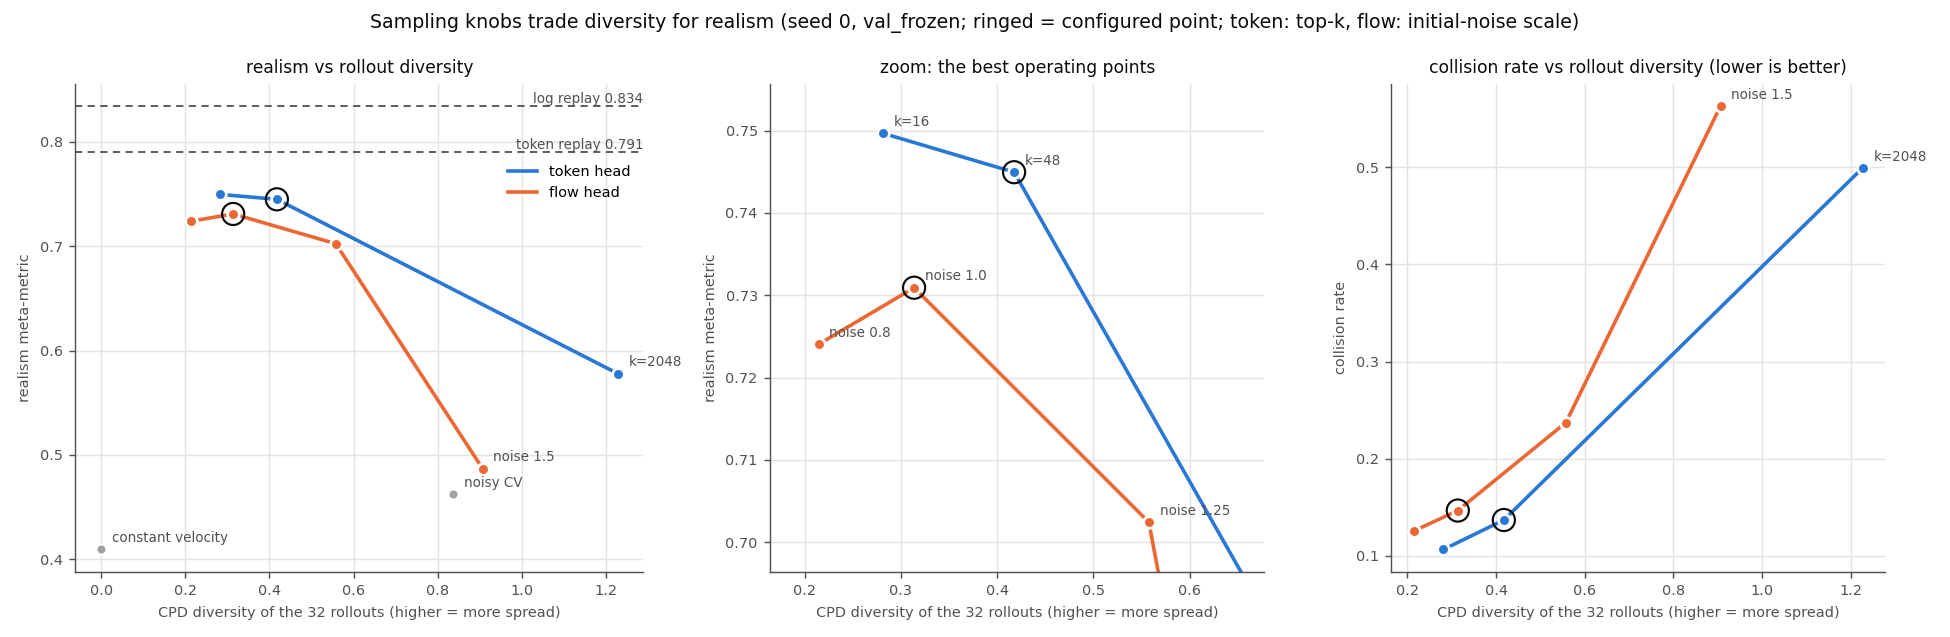
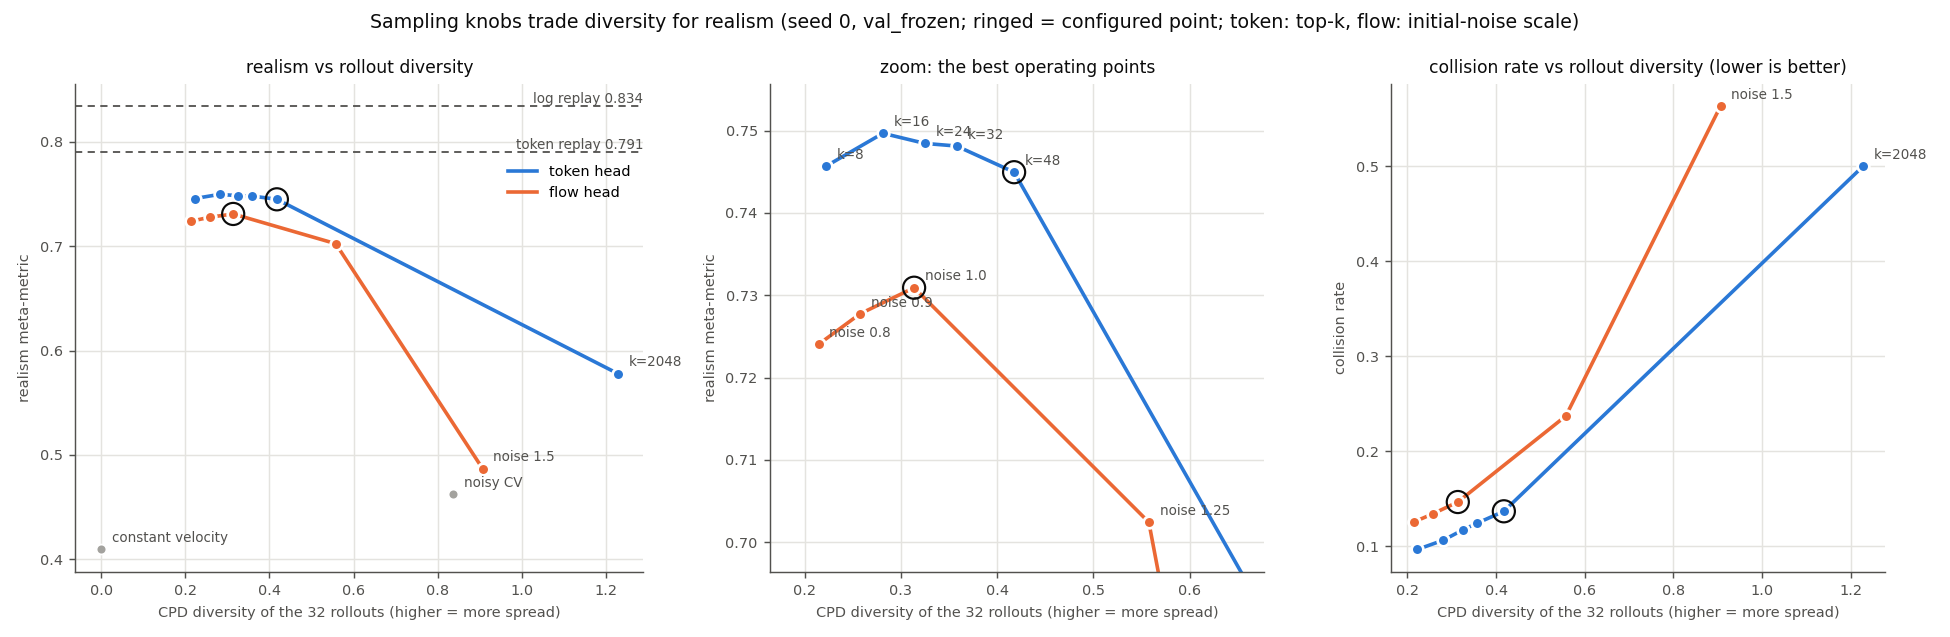
figures: draw full sampling grid with fine-tuned policies

diff --git a/src/tokens_vs_flows/figures.py b/src/tokens_vs_flows/figures.py
@@ -110,17 +110,21 @@ def baseline_bars(runs: Dict[str, Path], out: Path, title: str = "") -> None:
 
 def operating_points(sweeps: Dict[str, List[Tuple[str, Path]]], out: Path, defaults: Dict[str, str],
                      refs: Optional[Dict[str, Path]] = None, ceilings: Optional[Dict[str, Path]] = None,
-                     title: str = "") -> None:
+                     title: str = "", extra: Optional[Dict[str, List[Tuple[str, Path]]]] = None,
+                     extra_label: str = "other policies") -> None:
     """Realism and collision rate against rollout diversity (CPD) along each head's sampling knob.
 
     sweeps: {"token": [("k=16", run dir), ...], "flow": [...]} in knob order; defaults: the configured point's
     label per arm (ringed); refs: model-free baselines drawn as grey points in the overview; ceilings: replays drawn
-    as dashed horizontal lines. Panels: overview, zoom on the models' best region, collision rate.
+    as dashed horizontal lines; extra: other policies of each arm (e.g. fine-tuned ones) drawn as diamonds, so a
+    point above its arm's curve beats every sampling setting of that diversity. Panels: overview, zoom on the
+    models' best region, collision rate.
     """
     pts = {a: [(lab, load_detail(r)) for lab, r in s] for a, s in sweeps.items()}
+    ext = {a: [(lab, load_detail(r)) for lab, r in s] for a, s in (extra or {}).items()}
     fig, axes = plt.subplots(1, 3, figsize=(15, 4.9), gridspec_kw={"width_ratios": [1.15, 1, 1]})
     best = max(d["realism"] for s in pts.values() for _, d in s)
-    zoom = [(a, lab, d) for a, s in pts.items() for lab, d in s if d["realism"] >= best - 0.06]
+    zoom = [(a, lab, d) for src in (pts, ext) for a, s in src.items() for lab, d in s if d["realism"] >= best - 0.06]
     for k, (ax, key) in enumerate(zip(axes, ["realism", "realism", "collision_rate"])):
         _style(ax)
         ax.xaxis.grid(True, color=GRID, lw=0.8)
@@ -136,6 +140,15 @@ def operating_points(sweeps: Dict[str, List[Tuple[str, Path]]], out: Path, defau
                 if k == 1 or lab == s[-1][0]:
                     ax.annotate(lab, (d["CPD"], d[key]), xytext=(6, 4), textcoords="offset points", fontsize=7.5,
                                 color=MUTED)
+        for arm, s in ext.items():
+            for lab, d in s:
+                ax.scatter(d["CPD"], d[key], s=58, marker="D", color=ARM_COLORS.get(arm, MUTED), zorder=5,
+                           edgecolors=INK, linewidths=0.8)
+                if k > 0:
+                    ax.annotate(lab, (d["CPD"], d[key]), xytext=(7, -11), textcoords="offset points", fontsize=7.5,
+                                color=INK)
+        if k == 0 and ext:
+            ax.scatter([], [], s=58, marker="D", color="white", edgecolors=INK, linewidths=0.8, label=extra_label)
         if k == 0:
             for name, r in (refs or {}).items():
                 d = load_detail(r)
@@ -364,10 +377,10 @@ def main():
                    title="Realism on val_frozen (1000 scenarios, 32 rollouts each)"
                          + (" — heads: seed 0" if n == 1 else ""))
     s, b = args.sweep_seed, lambda name: runs / name
-    sweeps = {"token": [("k=16", b(f"bc_token_s{s}_topk16")), ("k=48", b(f"bc_token_s{s}")),
-                        ("k=2048", b(f"bc_token_s{s}_topk2048"))],
-              "flow": [("noise 0.8", b(f"bc_flow_s{s}_noise0.8")), ("noise 1.0", b(f"bc_flow_s{s}")),
-                       ("noise 1.25", b(f"bc_flow_s{s}_noise1.25")), ("noise 1.5", b(f"bc_flow_s{s}_noise1.5"))]}
+    sweeps = {"token": [(f"k={k}", b(f"bc_token_s{s}" if k == 48 else f"bc_token_s{s}_topk{k}"))
+                        for k in (8, 16, 24, 32, 48, 2048)],
+              "flow": [(f"noise {v}", b(f"bc_flow_s{s}" if v == "1.0" else f"bc_flow_s{s}_noise{v}"))
+                       for v in ("0.8", "0.9", "1.0", "1.25", "1.5")]}
     sweeps = {a: [(lab, r) for lab, r in v if (r / "metrics_detail.json").exists()] for a, v in sweeps.items()}
     operating_points(sweeps, figs / f"sampling_sweeps_s{s}.png", defaults={"token": "k=48", "flow": "noise 1.0"},
                      refs={"constant velocity": runs / "eval_constant_velocity", "noisy CV": runs / "eval_noisy_actions"},
